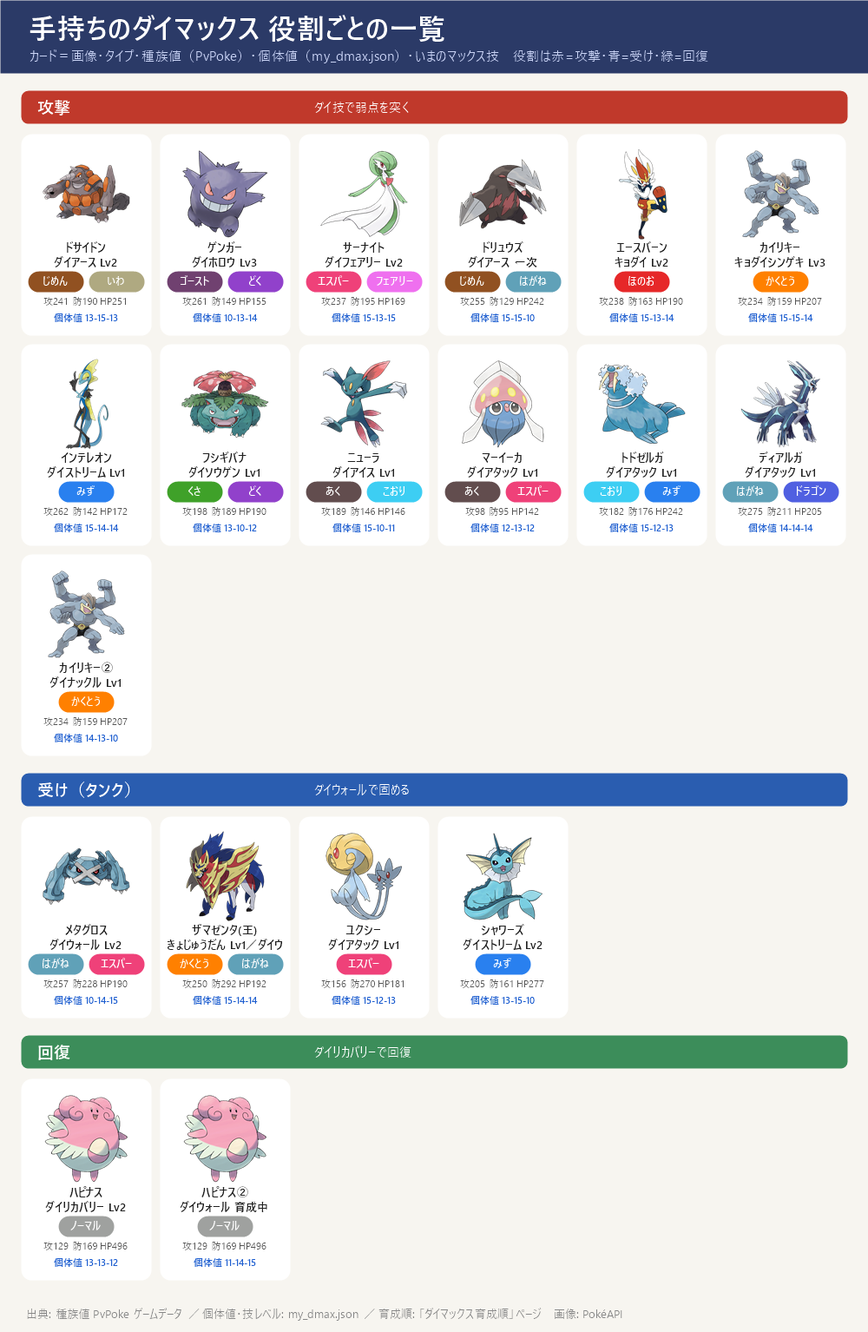
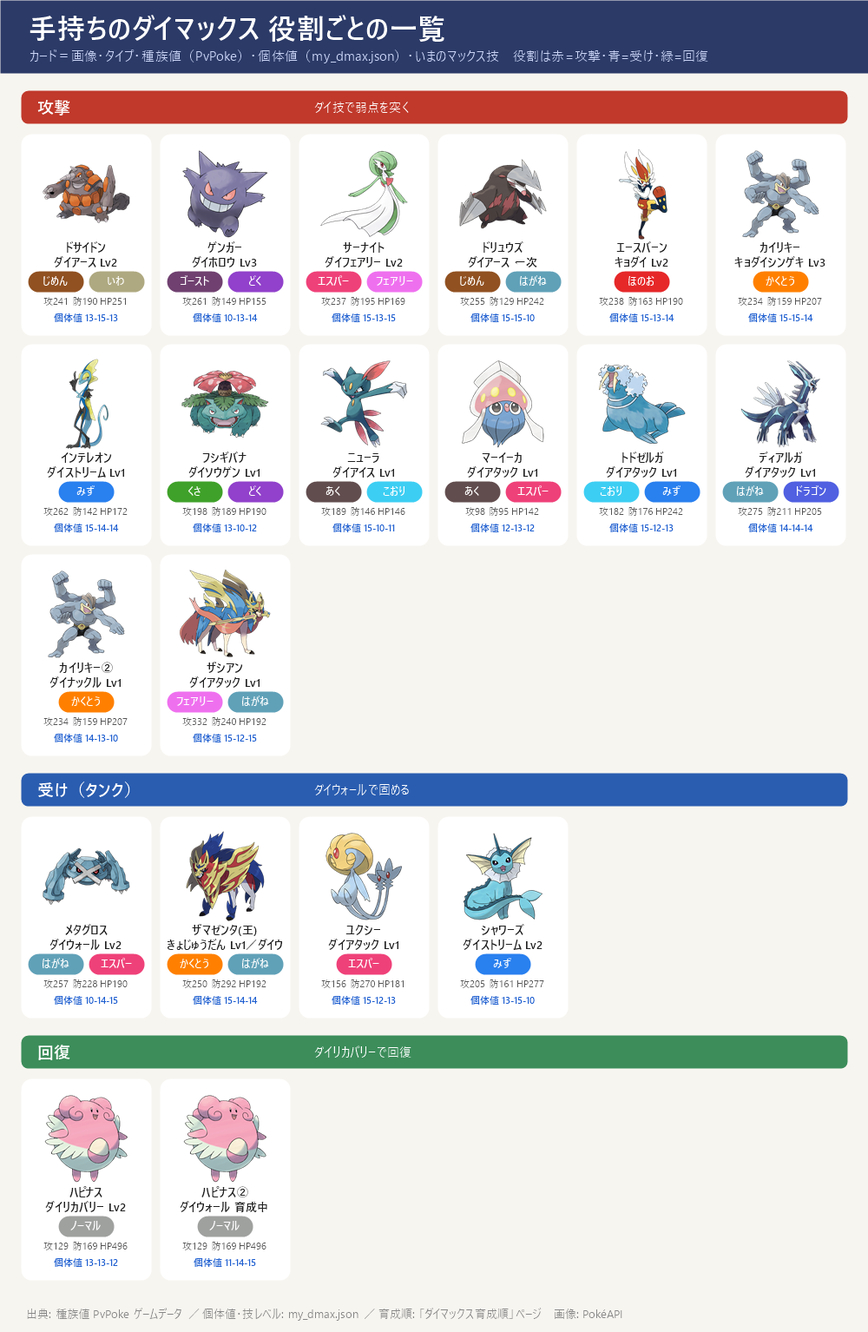
ザシアン(けんのおう/剣の王)を手持ちダイマックスに反映（my-dmax・dmax-training）
- my_dmax.json: ザシアンをけんのおう(CP4667/HP158/個体値15-12-15/PL36/ダイアタックLv1/アメ4・XL197)に更新
- my-dmax: 一覧に追加(攻撃・後回し候補・zacian-crowned)。手持ち全16→Zacian含め表示
- dmax-training: 早見表にPL36追加、後回しに追記、育成計画の個体値を実データ15-12-15に訂正しぎんのおうかんの食い違いを注記
- ボス別の計算(calc/ww_calc)は従来どおりzacian除外のまま=ボス出力不変

Changed region(s): [[0.186, 0.4289, 0.341, 0.5821]]

diff --git a/topics/dmax-training/index.html b/topics/dmax-training/index.html
@@ -12,4 +12,4 @@ details{margin:10px 0}summary{cursor:pointer;color:var(--muted)}
 .ti{width:26px;height:26px;margin:0 7px 0 0;font-size:20px;line-height:26px}
 .hi{width:30px;height:30px;margin:0 9px 0 0;font-size:24px;line-height:30px}
 ul.tl{padding-left:0}ul.tl li{list-style:none;margin:7px 0}ul.tl a{display:flex;align-items:center}
-</style></head><body><header><h1><span class='hi'>📋</span>ダイマックス 育成の優先順位（10/17〜）</h1><nav><a href='../../'>← 一覧</a></nav></header><main><ul><li><span style='font-weight:bold;color:#C0392B'>結論：すなより「マックス技のレベル」</span>。マックス技 Lv1→Lv3 で威力 <b>+40%</b>（250→350）、PL30→40 は攻撃 <b>+8%</b> だけ → すな（50万未満）はほぼ使わず、<b>MP とアメ</b>で育てる</li><li><span style='font-weight:bold;color:#C0392B'>残る強化は 11/9(日) 以降にまとめる</span>（10/20 決定）：GOパス デラックス「ワイルドウィーク」のランク2で、マックス技の MP が <b>3/4</b>（Lv2 は 600 → 450）。残るは <b>⑥ドリュウズ だけ</b>（約600 → 450）。<b>ゲンガーは 10/24 用に Lv3 済み（10/23）、ハピナスは回復役として Lv2 済み（10/21）、メタグロスはダイウォール Lv2 済み（10/24）、ドサイドンはダイアース Lv2 済み（10/24）、サーナイトはダイフェアリー Lv2 済み（10/24）</b></li><li><b>11/9 にいちばん先</b>：⑥ドリュウズ ダイアース Lv2（②メタグロス・③ドサイドン・⑤サーナイトは 10/24 までに済み）。11/9〜13 の ★5 の前に</li><li><b>止まりやすいのは MP ではなくアメ</b>：1〜6位を全部 Lv2 にしても MP は約4,000（ふつうの日5日分）。アメが足りない技は飛ばして次へ。Lv3 はアメXL 40〜55個 → <b>当面は全部 Lv2 まで</b></li><li><span style='color:#888888'>11/16 以降のマックスバトルは未発表（10/17 時点）。発表されたらこのページを直す</span></li><li><span style='font-weight:bold;color:#C0392B'>下に「ザシアン・ザマゼンタの育成計画」</span>：<b>ザマゼンタは 2026-11-08 に王の姿（盾の王）へ変更済み</b>。残るはザシアンの攻撃を<b>ぎんのおうかん</b>で特訓。<b>締切 11/17・11/22</b>（くわしくは下の節）</li></ul><h2 style='border-color:#C0392B'>育成の優先順位</h2><a href='pokego_extra0.png'><img src='pokego_extra0.png' alt='育成の優先順位' loading=lazy></a><ul><li><b>1位 ハピナス（CP2677）</b>：<span style='font-weight:bold;color:#C0392B'>ダイリカバリー Lv2 済み（10/21）</span>。<b>6ボスすべて</b>で回復役。回復量 31 → <b>47</b>（4体全員に）。次はダイウォール Lv2</li><li><b>2位 メタグロス（CP3369）</b>：<span style='font-weight:bold;color:#C0392B'>ダイウォール Lv2 済み（10/24）</span>。<b>6ボスすべて</b>で受け役（盾 <b>40</b>）。どの攻略サイトでも受け役の上位。Lv3（盾 60）はアメXL が要るので当面このまま</li><li><b>3位 ドサイドン（CP3005）</b>：<span style='font-weight:bold;color:#C0392B'>ダイアース Lv2 済み（10/24）</span>（<b>どろかけ</b> 替え済み 10/18）。ディアルガ・レジスチル・★6 キョダイジュラルドンで<b>弱点</b>を突く攻撃役。ディアルガへの1発 227→約272（Lv3 は 318・アメXL が要るので当面このまま）</li><li><b>4位 ゲンガー（CP2500）</b>：<span style='font-weight:bold;color:#C0392B'>ダイホロウ（ダイアタック）Lv3 済み（10/23）</span>。10/24 ユクシー・エムリット・アグノム、11/13 ラティアス・ラティオスで弱点</li><li><b>5位 サーナイト（CP2023・15-13-15）</b>：<span style='font-weight:bold;color:#C0392B'>ダイフェアリー Lv2 済み（10/24）</span>。<b>あまえる</b> 替え済み（10/18）。パルキア・レジドラゴ・ラティアス／ラティオス・10/26 ヤミラミ（弱点はフェアリーだけ）の攻撃役</li><li><b>6位 ドリュウズ（CP1835・15-15-10・PL20）</b>：<span style='font-weight:bold;color:#C0392B'>次の強化はここから</span>。どろかけ／ドリルライナー、ダイアース Lv1 済み → <b>Lv2（600MP）</b>。アメ 187 → Lv2（約110）と PL30（約40）で約150、ぎりぎり足りる。<b>順番：Lv2 → PL30 → 和田堀の巣でアメXLを集めて Lv3</b>（Lv3 はアメXL 約45、今20）。集まらなければ最後に ふしぎなアメXL。ディアルガの技（ドラゴン・はがね・でんき）を<b>全部半減以下</b>で受けられる2体目のじめん役 → <span style='font-weight:bold;color:#C0392B'>11/9〜13 に</span></li><li><b>＋ ザマゼンタ（王の姿・盾の王）</b>（個体値15-14-14・<b>キラ</b>・HP161）：<span style='font-weight:bold;color:#C0392B'>2026-11-08 に王の姿へ</span>。マックスわざ <b>きょじゅうだん Lv1・ダイウォール Lv1（解放済み）</b>／ダイリカバリー未解放 → <b>受け役のダイマックス</b>として使える（★5 レジドラゴ・ラティアス／ラティオス・ディアルガ・パルキアの受けシミュに王ザマゼンタあり＝ボス別ページ）。<span style='font-weight:bold;color:#C0392B'>ダイウォール解放済みなので次は PL 上げを優先</span>。CP4096（11/9 確認）→ <b>今のPL39</b>、PL40まで アメ30・ほしのすな約1.0万（下の早見表）。アメ1・アメXL95、強化コスト表示は すな5,000・アメ15、<b>キラなのですな半分</b>。<span style='color:#888888'>※下の「ザシアン・ザマゼンタの育成計画」はダイマックスではなく通常レイド・特訓の別件</span></li><li><b>＋ キョダイマックスカイリキー（CP3049・15-15-14・PL40・メス）</b>：<span style='font-weight:bold;color:#C0392B'>2026-11-11 登録・キョダイシンゲキ Lv3（MAX）＝育成完了の即戦力</span>。かくとうの弱点を突く攻撃役で<b>手持ち最大の1発</b>（レジスチル333・ディアルガ442・★6キョダイジュラルドンにも弱点）。PL40・技MAXなので<b>これ以上の育成は不要</b>（ダイウォール・ダイリカバリーは未解放だが攻撃役なので問題なし）。防御・HPは低いので攻撃に専念。ワンリキーのアメ168・アメXL34。<span style='color:#888888'>※別個体の通常カイリキー（CP1698）は下の後回し（2体目）</span></li><li><span style='color:#888888'><b>後回し</b>：エースバーン（キョダイ Lv2 済み。Lv3 はアメXL 45個）／カイリキー2体目（CP1698・14-13-10 で弱い。キョダイのカイリキーがあるので育てない）／インテレオン・フシギバナ（ダイマックス版はどのサイトでも下位）／シャワーズ（パルキアの受けの控え）／ハピナス2体目（余裕ができたら2体目の回復役に）／<b>ユクシー（10/24 捕獲・15-12-13）＝受け（タンク）向き</b>（防御がとても高い(270)エスパー単。ただし今はダイアタック Lv1 のみで<b>ダイウォール未習得</b> → 覚えれば受けの2体目候補。今のドラゴン・はがね系ボスには等倍なので受け役の比較にはまだ入れていない。攻撃は火力不足・回復はHPが少なく不向き）／ニューラ（CP1139・こおりのつぶて。10/19 捕獲。マニューラへの進化はアメ100 → 今76、あと24。いしはある。進化すると CP約1,680、ダイアイスがレジドラゴ・ラティアス・ラティオスに2倍。アメは技より<b>進化を先</b>に）</span></li></ul><h2 style='border-color:#5B4B8A'>これからのマックスバトルと使うポケモン</h2><a href='pokego_extra1.png'><img src='pokego_extra1.png' alt='これからのマックスバトルと使うポケモン' loading=lazy></a><ul><li><b>10/19(月) マックスマンデー：ダイマックス ニューラ</b>（あく・こおり）→ かくとうが<b>4倍</b>：カイリキー。ほのお（エースバーン）・むし（メタグロスのれんぞくぎり）も弱点</li><li><b>10/24(土) 14:00〜17:00 マックスバトルデイ：ユクシー・エムリット・アグノム</b>（エスパー・★5）→ ゴースト（<b>ゲンガー</b>）・むし（<b>メタグロス</b>）。★5 なので4人で</li><li><b>10/26(月) マックスマンデー：ヤミラミ</b>（あく・ゴースト）→ 弱点は<b>フェアリーだけ</b>：サーナイト（あまえる）</li><li><b>11/9〜13 ワイルドウィーク</b>（★5 レジスチル・レジドラゴ・ラティアス・ラティオス）→ <b>11/14 ディアルガ・11/15 パルキア</b>。くわしくはボス別のページ</li><li><b>11/14・15 ★6 キョダイジュラルドン</b>（はがね・ドラゴン）→ じめん・かくとうが弱点：<b>ドサイドン（どろかけ）</b></li><li><span style='color:#888888'>11/16 以降は未発表。去年の年末は 12/14 にキョダイカビゴンのマックスバトルデイ</span></li></ul><h2 style='border-color:#B8860B'>ザシアン・ザマゼンタの育成計画</h2><ul><li><span style='font-weight:bold;color:#C0392B'>手持ち</span>：<b>ザシアン</b>（攻撃10／防御15／HP14）・<b>ザマゼンタ</b>（攻撃15／防御14／HP14・<span style='font-weight:bold;color:#C0392B'>2026-11-08 に王の姿（盾の王）へ</span>）。<span style='color:#888888'>※この節はダイマックスではなく、11/9〜のワイルドエリア（Into the Wild）での通常レイド・特訓の計画（王の姿ザマゼンタをダイマックスの受け役として育てる話は上の「育成の優先順位」）</span></li><li><b>① ザマゼンタ → 王の姿（盾の王）に</b>：<span style='font-weight:bold;color:#C0392B'>2026-11-08 に 王の姿（盾の王）へ フォルムチェンジ済み</span>（予定より少し早く達成）。<span style='color:#888888'>※王の姿にすると CP が変わる。王の姿の CP は 4096（2026-11-09 確認・推測ではない。個体値 15-14-14 は変わらない）</span></li><li><b>② ザシアン → 攻撃を特訓（10→15）</b>：<b>ぎんのおうかん</b>を使って攻撃を 15 にする（個体値が <b>15／15／14</b> になる）。<span style='color:#888888'>ぎんのおうかんで上げられるのは1つの数値だけ</span></li><li><b>③ ぎんのおうかんの入手</b>：「<b>GOパス デラックス：Into the Wild</b>」（14.99ドル相当）を<b>最後までクリア</b>するともらえる</li><li><span style='font-weight:bold;color:#C0392B'>④ いま準備すること</span>：<b>ザシアンを今から相棒にして「仲良し」以上にしておく</b>（特訓に使える相棒は仲良し以上だけ）。攻撃の特訓は<b>一緒にバトルすると進む</b>。<span style='font-weight:bold;color:#C0392B'>特訓したポケモンはポケモンHOMEに送れなくなる</span>ので注意</li><li><b>日程</b>（公式と Leek Duck の2か所で一致）：Into the Wild <b>11/9(月)10:00〜11/13(金)20:00</b>／レイドアワー <b>11/9(月)18:00〜19:00 ザシアン</b>・<b>11/10(火)18:00〜19:00 ザマゼンタ</b>／GOパスのポイント獲得は <b>11/15(日)18:00</b> まで</li><li><span style='font-weight:bold;color:#C0392B'>■ 締切①：11/17(火)23:59 まで</span> — GOパス デラックスの<b>報酬（ぎんのおうかん）の受け取り</b>期限</li><li><span style='font-weight:bold;color:#C0392B'>■ 締切②：11/22(日)23:59 まで</span> — <b>ぎんのおうかんの使用</b>期限（この日までにザシアンの攻撃特訓を済ませる）</li></ul><h2 style='border-color:#2A5DB0'>MP の計画</h2><ul><li>1日に集められるのは <b>800</b>（5:00 に戻る）、持てる上限は <b>1,500</b>。パック・リサーチ・コードの MP は1日の上限に数えない</li><li><b>育成に要る MP</b>：ゲンガー（ダイホロウ Lv3・10/23）・ハピナス（ダイリカバリー Lv2・10/21）・メタグロス（ダイウォール Lv2・10/24）・ドサイドン（ダイアース Lv2・10/24）・サーナイト（ダイフェアリー Lv2・10/24）は済み。残るは ⑥ドリュウズ 約600 → 11/9 以降の 3/4 なら <b>約450</b></li><li><b>11/8 までは MP をためる</b>：持てるのは 1,500 まで → あふれる分は<b>パックを開けずにとっておく</b>（ウェブストア 6個 1,120円 ＝ 4,800MP など）。11/9 に 1,500 から強化 → 減ったらパックを開けて続きを強化</li><li><b>パック（800MP）は 11/14・15 用にとっておく</b>のがいちばん効く：1個 ＝ もう1戦。持てるのは12個まで。<span style='font-weight:bold;color:#C0392B'>開けられるのは 1,500 未満のときだけ</span>（1戦して減ったら開ける。開けると 1,500 を超えてもよい）</li><li>例：週3個 × 4週（10/18〜11/13）＝ 最大12個。半分の6個をとっておけば、11/14・15 が <b>3戦ずつ増える</b></li><li><b>11/12・13 は使わずに 1,500 までためる</b>（いままでの計画どおり）</li><li><span style='color:#888888'>GOパス デラックス：ワイルドウィーク（11/9 10:00〜11/15 18:00、14.99ドル）。<b>まだ買っていない</b>。ランク2 までに要るポイントと、特典がいつ効くかは 11/9 に画面で確認。11/9〜13 はポイントに1日の上限あり</span></li></ul><h2 style='border-color:#3C8D5A'>必要な量とすなの使い方</h2><ul><li><b>覚える（Lv1）</b>：400MP ＋ アメ50〜70（伝説80）／<b>Lv1→2</b>：600MP ＋ アメ100〜120（伝説130）／<b>Lv2→3</b>：800MP ＋ <b>アメXL</b> 40〜50（伝説55）</li><li>アメの量はポケモンごとに違う（ゴース・ワンリキーは 60/110/45、ダンバルは 70/120/50）。<b>画面で確認してから</b></li><li><b>効果</b>：ダイ攻撃 250/300/350、キョダイ技 350/400/450、ダイウォール 盾 20/40/60、ダイリカバリー 最大HPの 8/12/16%。Lv4 は買えない（ムゲンダイナの特別な効果中だけ）</li><li><b>すな</b>：PL30→40 で15万、PL40→50 で25万（アメXL 296個）→ 50万未満なら上げられるのは1体だけ</li><li><b>すなを使うなら まずドリュウズを PL30 へ</b>（約7.5万すな・アメ約40 → CP1835 → <b>約2,750</b>、攻撃 約+22% でドサイドンと同じくらい）。いちばん安く強くなる。PL40（CP約3,200）はさらに15万すな → 後回し。<b>次がドサイドン</b>（今は PL31 前後と推定 → PL40 で約13万すな、攻撃 約+11%）。<span style='font-weight:bold;color:#C0392B'>カイリキー2体目（CP1698）にすなを入れるのはやめる</span>（キョダイのカイリキーが PL40・技MAX で完成済み）。ハピナス（CP2677）はもう PL40 近いので不要</li><li><b>10/22(木) 18:00〜19:00 ネマシュのスポットライトアワー（すな2倍）</b>でためる</li></ul><h2 style='border-color:#2E7D6B'>今のPL と PL40までのアメ・ほしのすな（概算）</h2><p>手持ちのダイマックスの<b>今のPL</b>（登録済みの個体値とCPから計算・0.5きざみ）と、<b>PL40まで</b>に必要な<b>アメ・ほしのすな</b>の概算。<span style='color:#888888'>キラ（キラポケモン）はほしのすなを半分で計算</span>。アメの所持数があるものは「あと何個」も表示。PL40を超えているものは「PL40到達済み」。CP未登録のものはPLを出せません</p><details><summary style='cursor:pointer;color:#2A5DB0;font-weight:bold'>手持ち19体の早見表（タップで開閉）</summary><ul><li><b>ハピナス</b>：今のPL <b>39.5</b>／PL40まで アメ <b>15</b>・ほしのすな <b>約1.0万</b></li><li><b>メタグロス</b>：今のPL <b>33.5</b>／PL40まで アメ <b>142</b>・ほしのすな <b>約10.9万</b></li><li><b>ドサイドン</b>：今のPL <b>28.5</b>／PL40まで アメ <b>194</b>・ほしのすな <b>約16.4万</b></li><li><b>ゲンガー</b>：今のPL <b>32.5</b>／PL40まで アメ <b>156</b>・ほしのすな <b>約12.2万</b></li><li><b>サーナイト</b>：今のPL <b>23</b>／PL40まで アメ <b>232</b>・ほしのすな <b>約20.8万</b></li><li><b>ドリュウズ</b>：今のPL <b>20</b>／PL40まで アメ <b>248</b>・ほしのすな <b>約22.5万</b>（アメ所持187 → <span style='font-weight:bold;color:#C0392B'>あと61</span>）</li><li><b>ザマゼンタ(王)</b>：今のPL <b>39</b>／PL40まで アメ <b>30</b>・ほしのすな <b>約1.0万</b>（キラ＝すな半分）（アメ所持1 → <span style='font-weight:bold;color:#C0392B'>あと29</span>）</li><li><b>カイリキー</b>：今のPL <b>40</b> → <b>PL40到達済み</b></li><li><b>エースバーン</b>：今のPL <b>30</b>／PL40まで アメ <b>182</b>・ほしのすな <b>約15.0万</b></li><li><b>インテレオン</b>：今のPL <b>27.5</b>／PL40まで アメ <b>202</b>・ほしのすな <b>約17.4万</b></li><li><b>フシギバナ</b>：今のPL <b>26.5</b>／PL40まで アメ <b>210</b>・ほしのすな <b>約18.2万</b></li><li><b>シャワーズ</b>：今のPL <b>19.5</b>／PL40まで アメ <b>250</b>・ほしのすな <b>約22.8万</b></li><li><b>ハピナス(2体目)</b>：今のPL <b>20</b>／PL40まで アメ <b>248</b>・ほしのすな <b>約22.5万</b></li><li><b>ユクシー</b>：CP未登録のため今のPLは計算できません</li><li><b>ニューラ</b>：今のPL <b>20</b>／PL40まで アメ <b>248</b>・ほしのすな <b>約22.5万</b>（アメ所持76 → <span style='font-weight:bold;color:#C0392B'>あと172</span>）</li><li><b>カイリキー(2体目)</b>：今のPL <b>20</b>／PL40まで アメ <b>248</b>・ほしのすな <b>約22.5万</b></li><li><b>マーイーカ</b>：今のPL <b>15</b>／PL40まで アメ <b>268</b>・ほしのすな <b>約24.6万</b>（アメ所持234 → <span style='font-weight:bold;color:#C0392B'>あと34</span>）</li><li><b>トドゼルガ</b>：今のPL <b>20</b>／PL40まで アメ <b>248</b>・ほしのすな <b>約22.5万</b>（アメ所持741 → 足りています）</li><li><b>ディアルガ</b>：今のPL <b>20</b>／PL40まで アメ <b>248</b>・ほしのすな <b>約22.5万</b>（アメ所持31 → <span style='font-weight:bold;color:#C0392B'>あと217</span>）</li></ul></details><p class=src>出典: マックス技の量: ポケらく post94863・Sportskeeda ／ MP: Dittobase ／ 予定: Leek Duck・Dittobase・ポケモンGO公式 into-the-wild-2026 ／ ランク: GO Hub（攻撃・受け・回復）・Dittobase・ドクターポケゴーゴー ／ すな: GO Hub ／ PL・強化コスト: CPM表(Lv40=0.7903)＋強化コスト表 Pokémon GO Hub・Bulbapedia ／ ボス別の計算: calc.json・ww_calc.json ／ ザシアン・ザマゼンタ: 指示書（公式・Leek Duck で日付一致） ／ 手持ち: my_dmax.json<br>画像: PokéAPI ／ 更新 2026-11-09</p></main></body></html>
+</style></head><body><header><h1><span class='hi'>📋</span>ダイマックス 育成の優先順位（10/17〜）</h1><nav><a href='../../'>← 一覧</a></nav></header><main><ul><li><span style='font-weight:bold;color:#C0392B'>結論：すなより「マックス技のレベル」</span>。マックス技 Lv1→Lv3 で威力 <b>+40%</b>（250→350）、PL30→40 は攻撃 <b>+8%</b> だけ → すな（50万未満）はほぼ使わず、<b>MP とアメ</b>で育てる</li><li><span style='font-weight:bold;color:#C0392B'>残る強化は 11/9(日) 以降にまとめる</span>（10/20 決定）：GOパス デラックス「ワイルドウィーク」のランク2で、マックス技の MP が <b>3/4</b>（Lv2 は 600 → 450）。残るは <b>⑥ドリュウズ だけ</b>（約600 → 450）。<b>ゲンガーは 10/24 用に Lv3 済み（10/23）、ハピナスは回復役として Lv2 済み（10/21）、メタグロスはダイウォール Lv2 済み（10/24）、ドサイドンはダイアース Lv2 済み（10/24）、サーナイトはダイフェアリー Lv2 済み（10/24）</b></li><li><b>11/9 にいちばん先</b>：⑥ドリュウズ ダイアース Lv2（②メタグロス・③ドサイドン・⑤サーナイトは 10/24 までに済み）。11/9〜13 の ★5 の前に</li><li><b>止まりやすいのは MP ではなくアメ</b>：1〜6位を全部 Lv2 にしても MP は約4,000（ふつうの日5日分）。アメが足りない技は飛ばして次へ。Lv3 はアメXL 40〜55個 → <b>当面は全部 Lv2 まで</b></li><li><span style='color:#888888'>11/16 以降のマックスバトルは未発表（10/17 時点）。発表されたらこのページを直す</span></li><li><span style='font-weight:bold;color:#C0392B'>下に「ザシアン・ザマゼンタの育成計画」</span>：<b>ザマゼンタは 2026-11-08 に王の姿（盾の王）へ変更済み</b>。残るはザシアンの攻撃を<b>ぎんのおうかん</b>で特訓。<b>締切 11/17・11/22</b>（くわしくは下の節）</li></ul><h2 style='border-color:#C0392B'>育成の優先順位</h2><a href='pokego_extra0.png'><img src='pokego_extra0.png' alt='育成の優先順位' loading=lazy></a><ul><li><b>1位 ハピナス（CP2677）</b>：<span style='font-weight:bold;color:#C0392B'>ダイリカバリー Lv2 済み（10/21）</span>。<b>6ボスすべて</b>で回復役。回復量 31 → <b>47</b>（4体全員に）。次はダイウォール Lv2</li><li><b>2位 メタグロス（CP3369）</b>：<span style='font-weight:bold;color:#C0392B'>ダイウォール Lv2 済み（10/24）</span>。<b>6ボスすべて</b>で受け役（盾 <b>40</b>）。どの攻略サイトでも受け役の上位。Lv3（盾 60）はアメXL が要るので当面このまま</li><li><b>3位 ドサイドン（CP3005）</b>：<span style='font-weight:bold;color:#C0392B'>ダイアース Lv2 済み（10/24）</span>（<b>どろかけ</b> 替え済み 10/18）。ディアルガ・レジスチル・★6 キョダイジュラルドンで<b>弱点</b>を突く攻撃役。ディアルガへの1発 227→約272（Lv3 は 318・アメXL が要るので当面このまま）</li><li><b>4位 ゲンガー（CP2500）</b>：<span style='font-weight:bold;color:#C0392B'>ダイホロウ（ダイアタック）Lv3 済み（10/23）</span>。10/24 ユクシー・エムリット・アグノム、11/13 ラティアス・ラティオスで弱点</li><li><b>5位 サーナイト（CP2023・15-13-15）</b>：<span style='font-weight:bold;color:#C0392B'>ダイフェアリー Lv2 済み（10/24）</span>。<b>あまえる</b> 替え済み（10/18）。パルキア・レジドラゴ・ラティアス／ラティオス・10/26 ヤミラミ（弱点はフェアリーだけ）の攻撃役</li><li><b>6位 ドリュウズ（CP1835・15-15-10・PL20）</b>：<span style='font-weight:bold;color:#C0392B'>次の強化はここから</span>。どろかけ／ドリルライナー、ダイアース Lv1 済み → <b>Lv2（600MP）</b>。アメ 187 → Lv2（約110）と PL30（約40）で約150、ぎりぎり足りる。<b>順番：Lv2 → PL30 → 和田堀の巣でアメXLを集めて Lv3</b>（Lv3 はアメXL 約45、今20）。集まらなければ最後に ふしぎなアメXL。ディアルガの技（ドラゴン・はがね・でんき）を<b>全部半減以下</b>で受けられる2体目のじめん役 → <span style='font-weight:bold;color:#C0392B'>11/9〜13 に</span></li><li><b>＋ ザマゼンタ（王の姿・盾の王）</b>（個体値15-14-14・<b>キラ</b>・HP161）：<span style='font-weight:bold;color:#C0392B'>2026-11-08 に王の姿へ</span>。マックスわざ <b>きょじゅうだん Lv1・ダイウォール Lv1（解放済み）</b>／ダイリカバリー未解放 → <b>受け役のダイマックス</b>として使える（★5 レジドラゴ・ラティアス／ラティオス・ディアルガ・パルキアの受けシミュに王ザマゼンタあり＝ボス別ページ）。<span style='font-weight:bold;color:#C0392B'>ダイウォール解放済みなので次は PL 上げを優先</span>。CP4096（11/9 確認）→ <b>今のPL39</b>、PL40まで アメ30・ほしのすな約1.0万（下の早見表）。アメ1・アメXL95、強化コスト表示は すな5,000・アメ15、<b>キラなのですな半分</b>。<span style='color:#888888'>※下の「ザシアン・ザマゼンタの育成計画」はダイマックスではなく通常レイド・特訓の別件</span></li><li><b>＋ キョダイマックスカイリキー（CP3049・15-15-14・PL40・メス）</b>：<span style='font-weight:bold;color:#C0392B'>2026-11-11 登録・キョダイシンゲキ Lv3（MAX）＝育成完了の即戦力</span>。かくとうの弱点を突く攻撃役で<b>手持ち最大の1発</b>（レジスチル333・ディアルガ442・★6キョダイジュラルドンにも弱点）。PL40・技MAXなので<b>これ以上の育成は不要</b>（ダイウォール・ダイリカバリーは未解放だが攻撃役なので問題なし）。防御・HPは低いので攻撃に専念。ワンリキーのアメ168・アメXL34。<span style='color:#888888'>※別個体の通常カイリキー（CP1698）は下の後回し（2体目）</span></li><li><span style='color:#888888'><b>後回し</b>：エースバーン（キョダイ Lv2 済み。Lv3 はアメXL 45個）／カイリキー2体目（CP1698・14-13-10 で弱い。キョダイのカイリキーがあるので育てない）／インテレオン・フシギバナ（ダイマックス版はどのサイトでも下位）／シャワーズ（パルキアの受けの控え）／ハピナス2体目（余裕ができたら2体目の回復役に）／<b>ユクシー（10/24 捕獲・15-12-13）＝受け（タンク）向き</b>（防御がとても高い(270)エスパー単。ただし今はダイアタック Lv1 のみで<b>ダイウォール未習得</b> → 覚えれば受けの2体目候補。今のドラゴン・はがね系ボスには等倍なので受け役の比較にはまだ入れていない。攻撃は火力不足・回復はHPが少なく不向き）／ニューラ（CP1139・こおりのつぶて。10/19 捕獲。マニューラへの進化はアメ100 → 今76、あと24。いしはある。進化すると CP約1,680、ダイアイスがレジドラゴ・ラティアス・ラティオスに2倍。アメは技より<b>進化を先</b>に）／<b>ザシアン（けんのおう＝剣の王・CP4667・15-12-15・PL36・フェアリー/はがね）</b>（2026-11-11 登録・れきせんのゆうしゃ CP2719 からフォルムチェンジ。<b>ダイアタック Lv1 のみ</b>でダイウォール・ダイリカバリー未開放＝強化が要るため今は戦力に数えていない。伝説でトレード不可。ぎんのおうかん特訓は下の『ザシアン・ザマゼンタの育成計画』＝通常レイド・特訓の別件）</span></li></ul><h2 style='border-color:#5B4B8A'>これからのマックスバトルと使うポケモン</h2><a href='pokego_extra1.png'><img src='pokego_extra1.png' alt='これからのマックスバトルと使うポケモン' loading=lazy></a><ul><li><b>10/19(月) マックスマンデー：ダイマックス ニューラ</b>（あく・こおり）→ かくとうが<b>4倍</b>：カイリキー。ほのお（エースバーン）・むし（メタグロスのれんぞくぎり）も弱点</li><li><b>10/24(土) 14:00〜17:00 マックスバトルデイ：ユクシー・エムリット・アグノム</b>（エスパー・★5）→ ゴースト（<b>ゲンガー</b>）・むし（<b>メタグロス</b>）。★5 なので4人で</li><li><b>10/26(月) マックスマンデー：ヤミラミ</b>（あく・ゴースト）→ 弱点は<b>フェアリーだけ</b>：サーナイト（あまえる）</li><li><b>11/9〜13 ワイルドウィーク</b>（★5 レジスチル・レジドラゴ・ラティアス・ラティオス）→ <b>11/14 ディアルガ・11/15 パルキア</b>。くわしくはボス別のページ</li><li><b>11/14・15 ★6 キョダイジュラルドン</b>（はがね・ドラゴン）→ じめん・かくとうが弱点：<b>ドサイドン（どろかけ）</b></li><li><span style='color:#888888'>11/16 以降は未発表。去年の年末は 12/14 にキョダイカビゴンのマックスバトルデイ</span></li></ul><h2 style='border-color:#B8860B'>ザシアン・ザマゼンタの育成計画</h2><ul><li><span style='font-weight:bold;color:#C0392B'>手持ち</span>：<b>ザシアン</b>（攻撃15／防御12／HP15・<span style='font-weight:bold;color:#C0392B'>けんのおう＝剣の王・CP4667</span>）・<b>ザマゼンタ</b>（攻撃15／防御14／HP14・<span style='font-weight:bold;color:#C0392B'>2026-11-08 に王の姿（盾の王）へ</span>）。<span style='color:#888888'>※この節は<b>ぎんのおうかんでの特訓</b>（11/9〜のワイルドエリア Into the Wild の通常レイド・特訓）の計画。ザシアン（けんのおう）・ザマゼンタ（王の姿）を<b>ダイマックス</b>として使う話は上の「育成の優先順位」と手持ち一覧</span></li><li><b>① ザマゼンタ → 王の姿（盾の王）に</b>：<span style='font-weight:bold;color:#C0392B'>2026-11-08 に 王の姿（盾の王）へ フォルムチェンジ済み</span>（予定より少し早く達成）。<span style='color:#888888'>※王の姿にすると CP が変わる。王の姿の CP は 4096（2026-11-09 確認・推測ではない。個体値 15-14-14 は変わらない）</span></li><li><b>② ザシアン → ぎんのおうかんで特訓</b>（<b>当初計画は攻撃を特訓</b>）：<b>ぎんのおうかん</b>で個体値の1つを 15 にできる。<span style='font-weight:bold;color:#C0392B'>※実データは攻撃15／防御12／HP15（攻撃はすでに15）。当初の『攻撃 10→15』は個体値の確認前の計画だった → どのステータスに ぎんのおうかん を使うかは要再検討（sakata の判断）</span>。<span style='color:#888888'>ぎんのおうかんで上げられるのは1つの数値だけ</span></li><li><b>③ ぎんのおうかんの入手</b>：「<b>GOパス デラックス：Into the Wild</b>」（14.99ドル相当）を<b>最後までクリア</b>するともらえる</li><li><span style='font-weight:bold;color:#C0392B'>④ いま準備すること</span>：<b>ザシアンを今から相棒にして「仲良し」以上にしておく</b>（特訓に使える相棒は仲良し以上だけ）。攻撃の特訓は<b>一緒にバトルすると進む</b>。<span style='font-weight:bold;color:#C0392B'>特訓したポケモンはポケモンHOMEに送れなくなる</span>ので注意</li><li><b>日程</b>（公式と Leek Duck の2か所で一致）：Into the Wild <b>11/9(月)10:00〜11/13(金)20:00</b>／レイドアワー <b>11/9(月)18:00〜19:00 ザシアン</b>・<b>11/10(火)18:00〜19:00 ザマゼンタ</b>／GOパスのポイント獲得は <b>11/15(日)18:00</b> まで</li><li><span style='font-weight:bold;color:#C0392B'>■ 締切①：11/17(火)23:59 まで</span> — GOパス デラックスの<b>報酬（ぎんのおうかん）の受け取り</b>期限</li><li><span style='font-weight:bold;color:#C0392B'>■ 締切②：11/22(日)23:59 まで</span> — <b>ぎんのおうかんの使用</b>期限（この日までにザシアンの攻撃特訓を済ませる）</li></ul><h2 style='border-color:#2A5DB0'>MP の計画</h2><ul><li>1日に集められるのは <b>800</b>（5:00 に戻る）、持てる上限は <b>1,500</b>。パック・リサーチ・コードの MP は1日の上限に数えない</li><li><b>育成に要る MP</b>：ゲンガー（ダイホロウ Lv3・10/23）・ハピナス（ダイリカバリー Lv2・10/21）・メタグロス（ダイウォール Lv2・10/24）・ドサイドン（ダイアース Lv2・10/24）・サーナイト（ダイフェアリー Lv2・10/24）は済み。残るは ⑥ドリュウズ 約600 → 11/9 以降の 3/4 なら <b>約450</b></li><li><b>11/8 までは MP をためる</b>：持てるのは 1,500 まで → あふれる分は<b>パックを開けずにとっておく</b>（ウェブストア 6個 1,120円 ＝ 4,800MP など）。11/9 に 1,500 から強化 → 減ったらパックを開けて続きを強化</li><li><b>パック（800MP）は 11/14・15 用にとっておく</b>のがいちばん効く：1個 ＝ もう1戦。持てるのは12個まで。<span style='font-weight:bold;color:#C0392B'>開けられるのは 1,500 未満のときだけ</span>（1戦して減ったら開ける。開けると 1,500 を超えてもよい）</li><li>例：週3個 × 4週（10/18〜11/13）＝ 最大12個。半分の6個をとっておけば、11/14・15 が <b>3戦ずつ増える</b></li><li><b>11/12・13 は使わずに 1,500 までためる</b>（いままでの計画どおり）</li><li><span style='color:#888888'>GOパス デラックス：ワイルドウィーク（11/9 10:00〜11/15 18:00、14.99ドル）。<b>まだ買っていない</b>。ランク2 までに要るポイントと、特典がいつ効くかは 11/9 に画面で確認。11/9〜13 はポイントに1日の上限あり</span></li></ul><h2 style='border-color:#3C8D5A'>必要な量とすなの使い方</h2><ul><li><b>覚える（Lv1）</b>：400MP ＋ アメ50〜70（伝説80）／<b>Lv1→2</b>：600MP ＋ アメ100〜120（伝説130）／<b>Lv2→3</b>：800MP ＋ <b>アメXL</b> 40〜50（伝説55）</li><li>アメの量はポケモンごとに違う（ゴース・ワンリキーは 60/110/45、ダンバルは 70/120/50）。<b>画面で確認してから</b></li><li><b>効果</b>：ダイ攻撃 250/300/350、キョダイ技 350/400/450、ダイウォール 盾 20/40/60、ダイリカバリー 最大HPの 8/12/16%。Lv4 は買えない（ムゲンダイナの特別な効果中だけ）</li><li><b>すな</b>：PL30→40 で15万、PL40→50 で25万（アメXL 296個）→ 50万未満なら上げられるのは1体だけ</li><li><b>すなを使うなら まずドリュウズを PL30 へ</b>（約7.5万すな・アメ約40 → CP1835 → <b>約2,750</b>、攻撃 約+22% でドサイドンと同じくらい）。いちばん安く強くなる。PL40（CP約3,200）はさらに15万すな → 後回し。<b>次がドサイドン</b>（今は PL31 前後と推定 → PL40 で約13万すな、攻撃 約+11%）。<span style='font-weight:bold;color:#C0392B'>カイリキー2体目（CP1698）にすなを入れるのはやめる</span>（キョダイのカイリキーが PL40・技MAX で完成済み）。ハピナス（CP2677）はもう PL40 近いので不要</li><li><b>10/22(木) 18:00〜19:00 ネマシュのスポットライトアワー（すな2倍）</b>でためる</li></ul><h2 style='border-color:#2E7D6B'>今のPL と PL40までのアメ・ほしのすな（概算）</h2><p>手持ちのダイマックスの<b>今のPL</b>（登録済みの個体値とCPから計算・0.5きざみ）と、<b>PL40まで</b>に必要な<b>アメ・ほしのすな</b>の概算。<span style='color:#888888'>キラ（キラポケモン）はほしのすなを半分で計算</span>。アメの所持数があるものは「あと何個」も表示。PL40を超えているものは「PL40到達済み」。CP未登録のものはPLを出せません</p><details><summary style='cursor:pointer;color:#2A5DB0;font-weight:bold'>手持ち20体の早見表（タップで開閉）</summary><ul><li><b>ハピナス</b>：今のPL <b>39.5</b>／PL40まで アメ <b>15</b>・ほしのすな <b>約1.0万</b></li><li><b>メタグロス</b>：今のPL <b>33.5</b>／PL40まで アメ <b>142</b>・ほしのすな <b>約10.9万</b></li><li><b>ドサイドン</b>：今のPL <b>28.5</b>／PL40まで アメ <b>194</b>・ほしのすな <b>約16.4万</b></li><li><b>ゲンガー</b>：今のPL <b>32.5</b>／PL40まで アメ <b>156</b>・ほしのすな <b>約12.2万</b></li><li><b>サーナイト</b>：今のPL <b>23</b>／PL40まで アメ <b>232</b>・ほしのすな <b>約20.8万</b></li><li><b>ドリュウズ</b>：今のPL <b>20</b>／PL40まで アメ <b>248</b>・ほしのすな <b>約22.5万</b>（アメ所持187 → <span style='font-weight:bold;color:#C0392B'>あと61</span>）</li><li><b>ザマゼンタ(王)</b>：今のPL <b>39</b>／PL40まで アメ <b>30</b>・ほしのすな <b>約1.0万</b>（キラ＝すな半分）（アメ所持1 → <span style='font-weight:bold;color:#C0392B'>あと29</span>）</li><li><b>カイリキー</b>：今のPL <b>40</b> → <b>PL40到達済み</b></li><li><b>エースバーン</b>：今のPL <b>30</b>／PL40まで アメ <b>182</b>・ほしのすな <b>約15.0万</b></li><li><b>インテレオン</b>：今のPL <b>27.5</b>／PL40まで アメ <b>202</b>・ほしのすな <b>約17.4万</b></li><li><b>フシギバナ</b>：今のPL <b>26.5</b>／PL40まで アメ <b>210</b>・ほしのすな <b>約18.2万</b></li><li><b>シャワーズ</b>：今のPL <b>19.5</b>／PL40まで アメ <b>250</b>・ほしのすな <b>約22.8万</b></li><li><b>ハピナス(2体目)</b>：今のPL <b>20</b>／PL40まで アメ <b>248</b>・ほしのすな <b>約22.5万</b></li><li><b>ユクシー</b>：CP未登録のため今のPLは計算できません</li><li><b>ニューラ</b>：今のPL <b>20</b>／PL40まで アメ <b>248</b>・ほしのすな <b>約22.5万</b>（アメ所持76 → <span style='font-weight:bold;color:#C0392B'>あと172</span>）</li><li><b>カイリキー(2体目)</b>：今のPL <b>20</b>／PL40まで アメ <b>248</b>・ほしのすな <b>約22.5万</b></li><li><b>マーイーカ</b>：今のPL <b>15</b>／PL40まで アメ <b>268</b>・ほしのすな <b>約24.6万</b>（アメ所持234 → <span style='font-weight:bold;color:#C0392B'>あと34</span>）</li><li><b>トドゼルガ</b>：今のPL <b>20</b>／PL40まで アメ <b>248</b>・ほしのすな <b>約22.5万</b>（アメ所持741 → 足りています）</li><li><b>ザシアン</b>：今のPL <b>36</b>／PL40まで アメ <b>98</b>・ほしのすな <b>約7.2万</b>（アメ所持4 → <span style='font-weight:bold;color:#C0392B'>あと94</span>）</li><li><b>ディアルガ</b>：今のPL <b>20</b>／PL40まで アメ <b>248</b>・ほしのすな <b>約22.5万</b>（アメ所持31 → <span style='font-weight:bold;color:#C0392B'>あと217</span>）</li></ul></details><p class=src>出典: マックス技の量: ポケらく post94863・Sportskeeda ／ MP: Dittobase ／ 予定: Leek Duck・Dittobase・ポケモンGO公式 into-the-wild-2026 ／ ランク: GO Hub（攻撃・受け・回復）・Dittobase・ドクターポケゴーゴー ／ すな: GO Hub ／ PL・強化コスト: CPM表(Lv40=0.7903)＋強化コスト表 Pokémon GO Hub・Bulbapedia ／ ボス別の計算: calc.json・ww_calc.json ／ ザシアン・ザマゼンタ: 指示書（公式・Leek Duck で日付一致） ／ 手持ち: my_dmax.json<br>画像: PokéAPI ／ 更新 2026-11-11</p></main></body></html>

diff --git a/topics/my-dmax/index.html b/topics/my-dmax/index.html
@@ -12,4 +12,4 @@ details{margin:10px 0}summary{cursor:pointer;color:var(--muted)}
 .ti{width:26px;height:26px;margin:0 7px 0 0;font-size:20px;line-height:26px}
 .hi{width:30px;height:30px;margin:0 9px 0 0;font-size:24px;line-height:30px}
 ul.tl{padding-left:0}ul.tl li{list-style:none;margin:7px 0}ul.tl a{display:flex;align-items:center}
-</style></head><body><header><h1><span class='hi'>🧰</span>手持ちのダイマックス（育成メモ）</h1><nav><a href='../../'>← 一覧</a></nav></header><main><ul><li>手持ちのダイマックスポケモンの一覧。<b>種族値</b>（攻撃・防御・HP）は PvPoke のゲームデータ、<b>個体値</b>は記録（my_dmax.json）から「15-12-13」の形で表示。記録がないものは<b>「個体値 未登録」</b></li><li>役割：<span style='color:#C0392B;font-weight:bold'>攻撃</span>（赤）・<span style='color:#2A5DB0;font-weight:bold'>受け（タンク）</span>（青）・<span style='color:#3C8D5A;font-weight:bold'>回復</span>（緑）。カードは名前の下にいまのマックス技とレベル、その下に種族値・個体値</li><li>育成プランは下の節と「<b>ダイマックス育成順</b>」ページで同じ（次に上げる技とレベル・必要MP・優先順位）</li><li><span style='color:#888888'>個体値を記録済み：メタグロス・ユクシー・ハピナス・ドサイドン・ドリュウズ・インテレオン・ゲンガー・サーナイト・フシギバナ・シャワーズ・カイリキー・カイリキー(2体目)・エースバーン・ハピナス(2体目)・マーイーカ・トドゼルガ・ニューラ・ザマゼンタ(王)・ディアルガ。ほかは未登録</span></li><li><span style='color:#888888'>※ザシアンはダイマックスではないので、この一覧には入れていない（育成順ページに別記）。ザマゼンタは王の姿でマックスわざを持つ受け役なので、この一覧に加えた</span></li></ul><h2 style='border-color:#2B3A67'>役割ごとの一覧</h2><a href='pokego_extra0.png'><img src='pokego_extra0.png' alt='役割ごとの一覧' loading=lazy></a><ul></ul><h2 style='border-color:#C0392B'>育成プラン（育成順ページと同じ）</h2><ul><li><b>ドサイドン</b>（個体値 13-15-13）：<b>3位・攻撃（CP3005）</b>：<span style='font-weight:bold;color:#C0392B'>ダイアース Lv2 済み（10/24）</span>（どろかけ替え済み）。ディアルガ・レジスチル・★6キョダイジュラルドンで<b>弱点</b>。1発272（Lv3は318・アメXL要で後回し）</li><li><b>ゲンガー</b>（個体値 10-13-14）：<b>4位・攻撃（CP2500）</b>：<span style='font-weight:bold;color:#C0392B'>ダイホロウ（ダイアタック）Lv3 済み（10/23）</span>。10/24 ユクシー・エムリット・アグノム、11/13 ラティアス・ラティオスで弱点</li><li><b>サーナイト</b>（個体値 15-13-15）：<b>5位・攻撃（CP2023・15-13-15）</b>：<span style='font-weight:bold;color:#C0392B'>ダイフェアリー Lv2 済み（10/24）</span>。あまえる替え済み。パルキア・レジドラゴ・ラティアス／ラティオス・10/26 ヤミラミの攻撃役。<b>次の強化はドリュウズのダイアース Lv2 へ</b></li><li><b>ドリュウズ</b>（個体値 15-15-10）：<b>6位・攻撃/受け（CP1835・15-15-10・PL20）</b>：<span style='font-weight:bold;color:#C0392B'>次の強化はここから</span>。ダイアース Lv1 済み → <b>Lv2（600MP）</b>。順番：<b>Lv2 → PL30 → 和田堀の巣でアメXLを集めて Lv3</b>（アメ187）。ディアルガの技（ドラゴン・はがね・でんき）を全部半減以下で受けられる2体目のじめん役 → <span style='font-weight:bold;color:#C0392B'>11/9〜13 に</span></li><li><b>エースバーン</b>（個体値 15-13-14）：<span style='color:#888888'><b>後回し・攻撃（CP2566・15-13-14・キョダイマックス）</b>：キョダイカキュウ Lv2 済み（<b>ダイウォール・ダイリカバリーは未開放</b>）。Lv3 はアメXL 45個。レジスチル（ほのお弱点で1発278）・ヤミラミ・★6キョダイジュラルドンで活躍</span></li><li><b>カイリキー</b>（個体値 15-15-14）：<b>即戦力・攻撃（キョダイマックス・CP3049・15-15-14・PL40・メス）</b>：<span style='font-weight:bold;color:#C0392B'>キョダイシンゲキ Lv3（MAX）＝育成完了（2026-11-11 登録）</span>。かくとうで<b>レジスチル（1発333）・ディアルガ（442）・★6キョダイジュラルドン</b>に弱点を突く<b>手持ち最大の攻撃役</b>。PL40・技MAXでこれ以上の育成は不要（ダイウォール・ダイリカバリーは未解放だが攻撃役なので問題なし）。防御・HPは低いので攻撃に専念。ワンリキーのアメ168・アメXL34</li><li><b>インテレオン</b>（個体値 15-14-14）：<span style='color:#888888'><b>後回し・攻撃（CP2315・15-14-14）</b>：<b>ダイストリーム Lv1・ダイウォール未開放・ダイリカバリー未開放</b>（2026-10-26 登録）。みず攻撃役だが今のボス（はがね・ドラゴン・エスパー系）には弱点を突けず、どの攻略サイトでも下位 → 育成は後回し（パルキア戦ではみず技をいまひとつで受けられる控え）</span></li><li><b>フシギバナ</b>（個体値 13-10-12）：<span style='color:#888888'><b>後回し・攻撃（CP2000・13-10-12）</b>：ダイソウゲン Lv1・ダイリカバリー Lv1。ダイマックス版はどの攻略サイトでも下位</span></li><li><b>ニューラ</b>（個体値 15-10-11）：<span style='color:#888888'><b>後回し・攻撃候補（CP1139・15-10-11）</b>：10/19 捕獲・ダイアイス Lv1（ほかは未解放）。マニューラへの進化はアメ100（今76・あと24）、シンオウのいしあり。<b>技より進化を先に</b> → 進化後 CP約1,680 でダイアイスがレジドラゴ・ラティアス/ラティオスに2倍</span></li><li><b>マーイーカ</b>（個体値 12-13-12）：<span style='color:#888888'><b>後回し・攻撃候補（CP379・12-13-12）</b>：<b>ダイアタック Lv1・ダイウォール未開放・ダイリカバリー未開放</b>（2026-10-28 登録）。あく/エスパー。捕獲直後で弱く、今のボス（はがね・ドラゴン・エスパー系）には弱点を突けない → 戦力に数えず育成は後回し。アメ234個、カラマネロへの進化はアメ50</span></li><li><b>トドゼルガ</b>（個体値 15-12-13）：<span style='color:#888888'><b>後回し・攻撃候補（CP1539・15-12-13）</b>：<b>ダイアタック Lv1・ダイウォール未開放・ダイリカバリー未開放</b>（2026-11-01 登録）。こおり/みず（たきのぼり／みずのはどう）。タマザラシのアメ741・アメXL10。※ゲーム内の表示名は「タマザラシ」だが進化系のトドゼルガとして登録。捕獲直後で CP が低く今のボス（はがね・ドラゴン・エスパー系）には弱点を突けない → 戦力に数えず育成は後回し</span></li><li><b>ディアルガ</b>（個体値 14-14-14）：<span style='color:#888888'><b>後回し・攻撃候補（CP2289・14-14-14・PL20）</b>：<b>ダイアタック Lv1（ドラゴン）・ダイウォール未開放・ダイリカバリー未開放</b>（2026-11-10 登録）。はがね/ドラゴン（りゅうのいぶき／りゅうせいぐん）。ディアルガのアメ31・アメXL33。キラではない・色違いではない。<b>現在の育成プランにはディアルガ（手持ちの育成対象）の優先順位が無い</b>ため、育成順ページの早見表では末尾に置いている（マーイーカ・トドゼルガと同じ扱い）。ダイアタック Lv1 のみで今は戦力に数えていない</span></li><li><b>カイリキー(2体目)</b>（個体値 14-13-10）：<span style='color:#888888'><b>後回し・攻撃（2体目・CP1698・14-13-10）</b>：<b>ダイナックル Lv1・ダイウォール未開放・ダイリカバリー未開放</b>（2026-10-26 登録の通常ダイマックス個体）。キョダイのカイリキーがあるので育てない（別個体）</span></li><li><b>メタグロス</b>（個体値 10-14-15）：<b>2位・受け（CP3369）</b>：<span style='font-weight:bold;color:#C0392B'>ダイウォール Lv2 済み（10/24・盾40）</span>。<b>6ボスすべて</b>で受け役。Lv3（盾60）はアメXL が要るので当面このまま</li><li><b>ザマゼンタ(王)</b>（個体値 15-14-14）：<b>受け（王の姿・たてのおう・かくとう/はがね・CP4096・15-14-14・キラ・PL39）</b>：<span style='font-weight:bold;color:#C0392B'>2026-11-08 に王の姿へ</span>。きょじゅうだん Lv1・ダイウォール Lv1（解放済み）／ダイリカバリー未解放。<b>開始時に盾を1枚持つ</b>受け役で、★5レジドラゴ・ラティアス／ラティオス・ディアルガ・パルキアの受けシミュに採用（ボス別ページ）。次は PL 上げを優先（PL40まで アメ30・ほしのすな約1.0万・キラ）。<span style='color:#888888'>※育成順ページの『ザシアン・ザマゼンタの育成計画』はダイマックスではなく通常レイド・特訓の別件</span></li><li><b>ユクシー</b>（個体値 15-12-13）：<span style='color:#888888'><b>後回し・受け候補（15-12-13・技Lv1）</b>：10/24 捕獲。防御がとても高い(270)エスパー単。ダイアタック Lv1 のみで<b>ダイウォール未習得</b> → 覚えれば受け（タンク）の2体目候補。今のドラゴン・はがね系ボスには等倍なので受け役の比較にはまだ入れていない</span></li><li><b>シャワーズ</b>（個体値 13-15-10）：<b>受け（パルキア戦・CP1704・13-15-10）</b>：<b>ダイストリーム Lv2・ダイリカバリー Lv1・ダイウォール未開放</b>。だいもんじ・ハイドロポンプ・アクアテールを<b>いまひとつ</b>で受けられHPも多い → パルキア戦の受け役（<span style='font-weight:bold;color:#C0392B'>手元で確認済み・使える状態</span>）</li><li><b>ハピナス</b>（個体値 13-13-12）：<b>1位・回復（CP2677・13-13-12）</b>：<span style='font-weight:bold;color:#C0392B'>ダイリカバリー Lv2 済み（10/21）</span>。<b>6ボスすべて</b>で回復役（回復量 31→<b>47</b>・4体全員に）。<b>ダイウォール Lv1 も覚えており</b>、HP がとても多いので受け（盾）の候補にもなる（ボス別ページの受け役ランキングでも上位）。次はダイウォール Lv2</li><li><b>ハピナス(2体目)</b>（個体値 11-14-15）：<span style='color:#888888'><b>後回し・回復（2体目・11-14-15・PL20）</b>：PL40・ダイウォール Lv3 を目指して育成中。余裕ができたら2体目の回復役・受けに</span></li></ul><p class=src>出典: 種族値: PvPoke ゲームデータ ／ 個体値・技レベル・CP: my_dmax.json ／ 育成の優先順位・MP: 「ダイマックス育成順」ページ（GO Hub・Dittobase・ドクターポケゴーゴー）<br>画像: PokéAPI ／ 更新 2026-11-01</p></main></body></html>
+</style></head><body><header><h1><span class='hi'>🧰</span>手持ちのダイマックス（育成メモ）</h1><nav><a href='../../'>← 一覧</a></nav></header><main><ul><li>手持ちのダイマックスポケモンの一覧。<b>種族値</b>（攻撃・防御・HP）は PvPoke のゲームデータ、<b>個体値</b>は記録（my_dmax.json）から「15-12-13」の形で表示。記録がないものは<b>「個体値 未登録」</b></li><li>役割：<span style='color:#C0392B;font-weight:bold'>攻撃</span>（赤）・<span style='color:#2A5DB0;font-weight:bold'>受け（タンク）</span>（青）・<span style='color:#3C8D5A;font-weight:bold'>回復</span>（緑）。カードは名前の下にいまのマックス技とレベル、その下に種族値・個体値</li><li>育成プランは下の節と「<b>ダイマックス育成順</b>」ページで同じ（次に上げる技とレベル・必要MP・優先順位）</li><li><span style='color:#888888'>個体値を記録済み：メタグロス・ユクシー・ハピナス・ドサイドン・ドリュウズ・インテレオン・ゲンガー・サーナイト・フシギバナ・シャワーズ・カイリキー・カイリキー(2体目)・エースバーン・ハピナス(2体目)・マーイーカ・トドゼルガ・ニューラ・ザシアン・ザマゼンタ(王)・ディアルガ。ほかは未登録</span></li><li><span style='color:#888888'>※ザシアン（けんのおう）・ザマゼンタ（王の姿）もマックスわざを持つので、この一覧に加えた。ザシアンのぎんのおうかん特訓（通常レイド・特訓の別件）は育成順ページ『ザシアン・ザマゼンタの育成計画』に別記</span></li></ul><h2 style='border-color:#2B3A67'>役割ごとの一覧</h2><a href='pokego_extra0.png'><img src='pokego_extra0.png' alt='役割ごとの一覧' loading=lazy></a><ul></ul><h2 style='border-color:#C0392B'>育成プラン（育成順ページと同じ）</h2><ul><li><b>ドサイドン</b>（個体値 13-15-13）：<b>3位・攻撃（CP3005）</b>：<span style='font-weight:bold;color:#C0392B'>ダイアース Lv2 済み（10/24）</span>（どろかけ替え済み）。ディアルガ・レジスチル・★6キョダイジュラルドンで<b>弱点</b>。1発272（Lv3は318・アメXL要で後回し）</li><li><b>ゲンガー</b>（個体値 10-13-14）：<b>4位・攻撃（CP2500）</b>：<span style='font-weight:bold;color:#C0392B'>ダイホロウ（ダイアタック）Lv3 済み（10/23）</span>。10/24 ユクシー・エムリット・アグノム、11/13 ラティアス・ラティオスで弱点</li><li><b>サーナイト</b>（個体値 15-13-15）：<b>5位・攻撃（CP2023・15-13-15）</b>：<span style='font-weight:bold;color:#C0392B'>ダイフェアリー Lv2 済み（10/24）</span>。あまえる替え済み。パルキア・レジドラゴ・ラティアス／ラティオス・10/26 ヤミラミの攻撃役。<b>次の強化はドリュウズのダイアース Lv2 へ</b></li><li><b>ドリュウズ</b>（個体値 15-15-10）：<b>6位・攻撃/受け（CP1835・15-15-10・PL20）</b>：<span style='font-weight:bold;color:#C0392B'>次の強化はここから</span>。ダイアース Lv1 済み → <b>Lv2（600MP）</b>。順番：<b>Lv2 → PL30 → 和田堀の巣でアメXLを集めて Lv3</b>（アメ187）。ディアルガの技（ドラゴン・はがね・でんき）を全部半減以下で受けられる2体目のじめん役 → <span style='font-weight:bold;color:#C0392B'>11/9〜13 に</span></li><li><b>エースバーン</b>（個体値 15-13-14）：<span style='color:#888888'><b>後回し・攻撃（CP2566・15-13-14・キョダイマックス）</b>：キョダイカキュウ Lv2 済み（<b>ダイウォール・ダイリカバリーは未開放</b>）。Lv3 はアメXL 45個。レジスチル（ほのお弱点で1発278）・ヤミラミ・★6キョダイジュラルドンで活躍</span></li><li><b>カイリキー</b>（個体値 15-15-14）：<b>即戦力・攻撃（キョダイマックス・CP3049・15-15-14・PL40・メス）</b>：<span style='font-weight:bold;color:#C0392B'>キョダイシンゲキ Lv3（MAX）＝育成完了（2026-11-11 登録）</span>。かくとうで<b>レジスチル（1発333）・ディアルガ（442）・★6キョダイジュラルドン</b>に弱点を突く<b>手持ち最大の攻撃役</b>。PL40・技MAXでこれ以上の育成は不要（ダイウォール・ダイリカバリーは未解放だが攻撃役なので問題なし）。防御・HPは低いので攻撃に専念。ワンリキーのアメ168・アメXL34</li><li><b>インテレオン</b>（個体値 15-14-14）：<span style='color:#888888'><b>後回し・攻撃（CP2315・15-14-14）</b>：<b>ダイストリーム Lv1・ダイウォール未開放・ダイリカバリー未開放</b>（2026-10-26 登録）。みず攻撃役だが今のボス（はがね・ドラゴン・エスパー系）には弱点を突けず、どの攻略サイトでも下位 → 育成は後回し（パルキア戦ではみず技をいまひとつで受けられる控え）</span></li><li><b>フシギバナ</b>（個体値 13-10-12）：<span style='color:#888888'><b>後回し・攻撃（CP2000・13-10-12）</b>：ダイソウゲン Lv1・ダイリカバリー Lv1。ダイマックス版はどの攻略サイトでも下位</span></li><li><b>ニューラ</b>（個体値 15-10-11）：<span style='color:#888888'><b>後回し・攻撃候補（CP1139・15-10-11）</b>：10/19 捕獲・ダイアイス Lv1（ほかは未解放）。マニューラへの進化はアメ100（今76・あと24）、シンオウのいしあり。<b>技より進化を先に</b> → 進化後 CP約1,680 でダイアイスがレジドラゴ・ラティアス/ラティオスに2倍</span></li><li><b>マーイーカ</b>（個体値 12-13-12）：<span style='color:#888888'><b>後回し・攻撃候補（CP379・12-13-12）</b>：<b>ダイアタック Lv1・ダイウォール未開放・ダイリカバリー未開放</b>（2026-10-28 登録）。あく/エスパー。捕獲直後で弱く、今のボス（はがね・ドラゴン・エスパー系）には弱点を突けない → 戦力に数えず育成は後回し。アメ234個、カラマネロへの進化はアメ50</span></li><li><b>トドゼルガ</b>（個体値 15-12-13）：<span style='color:#888888'><b>後回し・攻撃候補（CP1539・15-12-13）</b>：<b>ダイアタック Lv1・ダイウォール未開放・ダイリカバリー未開放</b>（2026-11-01 登録）。こおり/みず（たきのぼり／みずのはどう）。タマザラシのアメ741・アメXL10。※ゲーム内の表示名は「タマザラシ」だが進化系のトドゼルガとして登録。捕獲直後で CP が低く今のボス（はがね・ドラゴン・エスパー系）には弱点を突けない → 戦力に数えず育成は後回し</span></li><li><b>ディアルガ</b>（個体値 14-14-14）：<span style='color:#888888'><b>後回し・攻撃候補（CP2289・14-14-14・PL20）</b>：<b>ダイアタック Lv1（ドラゴン）・ダイウォール未開放・ダイリカバリー未開放</b>（2026-11-10 登録）。はがね/ドラゴン（りゅうのいぶき／りゅうせいぐん）。ディアルガのアメ31・アメXL33。キラではない・色違いではない。<b>現在の育成プランにはディアルガ（手持ちの育成対象）の優先順位が無い</b>ため、育成順ページの早見表では末尾に置いている（マーイーカ・トドゼルガと同じ扱い）。ダイアタック Lv1 のみで今は戦力に数えていない</span></li><li><b>カイリキー(2体目)</b>（個体値 14-13-10）：<span style='color:#888888'><b>後回し・攻撃（2体目・CP1698・14-13-10）</b>：<b>ダイナックル Lv1・ダイウォール未開放・ダイリカバリー未開放</b>（2026-10-26 登録の通常ダイマックス個体）。キョダイのカイリキーがあるので育てない（別個体）</span></li><li><b>ザシアン</b>（個体値 15-12-15）：<span style='color:#888888'><b>後回し・攻撃候補（けんのおう＝剣の王・フェアリー/はがね・CP4667・15-12-15・PL36）</b>：<b>ダイアタック Lv1・ダイウォール未開放・ダイリカバリー未開放</b>（2026-11-11 登録。れきせんのゆうしゃ CP2719 からフォルムチェンジ）。ザシアンのアメ4・アメXL197。ダイアタック Lv1 のみで強化が要るため今は戦力（ボス別の計算）に数えていない（<b>伝説でトレード不可</b>）。<span style='font-weight:bold;color:#C0392B'>※下の別件『ザシアン・ザマゼンタの育成計画』のぎんのおうかん特訓は通常レイド・特訓の話。個体値は実データ 15-12-15 に訂正済み（攻撃はすでに15 → どのステータスに上げるかは要再検討・sakata の判断）</span></span></li><li><b>メタグロス</b>（個体値 10-14-15）：<b>2位・受け（CP3369）</b>：<span style='font-weight:bold;color:#C0392B'>ダイウォール Lv2 済み（10/24・盾40）</span>。<b>6ボスすべて</b>で受け役。Lv3（盾60）はアメXL が要るので当面このまま</li><li><b>ザマゼンタ(王)</b>（個体値 15-14-14）：<b>受け（王の姿・たてのおう・かくとう/はがね・CP4096・15-14-14・キラ・PL39）</b>：<span style='font-weight:bold;color:#C0392B'>2026-11-08 に王の姿へ</span>。きょじゅうだん Lv1・ダイウォール Lv1（解放済み）／ダイリカバリー未解放。<b>開始時に盾を1枚持つ</b>受け役で、★5レジドラゴ・ラティアス／ラティオス・ディアルガ・パルキアの受けシミュに採用（ボス別ページ）。次は PL 上げを優先（PL40まで アメ30・ほしのすな約1.0万・キラ）。<span style='color:#888888'>※育成順ページの『ザシアン・ザマゼンタの育成計画』はダイマックスではなく通常レイド・特訓の別件</span></li><li><b>ユクシー</b>（個体値 15-12-13）：<span style='color:#888888'><b>後回し・受け候補（15-12-13・技Lv1）</b>：10/24 捕獲。防御がとても高い(270)エスパー単。ダイアタック Lv1 のみで<b>ダイウォール未習得</b> → 覚えれば受け（タンク）の2体目候補。今のドラゴン・はがね系ボスには等倍なので受け役の比較にはまだ入れていない</span></li><li><b>シャワーズ</b>（個体値 13-15-10）：<b>受け（パルキア戦・CP1704・13-15-10）</b>：<b>ダイストリーム Lv2・ダイリカバリー Lv1・ダイウォール未開放</b>。だいもんじ・ハイドロポンプ・アクアテールを<b>いまひとつ</b>で受けられHPも多い → パルキア戦の受け役（<span style='font-weight:bold;color:#C0392B'>手元で確認済み・使える状態</span>）</li><li><b>ハピナス</b>（個体値 13-13-12）：<b>1位・回復（CP2677・13-13-12）</b>：<span style='font-weight:bold;color:#C0392B'>ダイリカバリー Lv2 済み（10/21）</span>。<b>6ボスすべて</b>で回復役（回復量 31→<b>47</b>・4体全員に）。<b>ダイウォール Lv1 も覚えており</b>、HP がとても多いので受け（盾）の候補にもなる（ボス別ページの受け役ランキングでも上位）。次はダイウォール Lv2</li><li><b>ハピナス(2体目)</b>（個体値 11-14-15）：<span style='color:#888888'><b>後回し・回復（2体目・11-14-15・PL20）</b>：PL40・ダイウォール Lv3 を目指して育成中。余裕ができたら2体目の回復役・受けに</span></li></ul><p class=src>出典: 種族値: PvPoke ゲームデータ ／ 個体値・技レベル・CP: my_dmax.json ／ 育成の優先順位・MP: 「ダイマックス育成順」ページ（GO Hub・Dittobase・ドクターポケゴーゴー）<br>画像: PokéAPI ／ 更新 2026-11-11</p></main></body></html>
